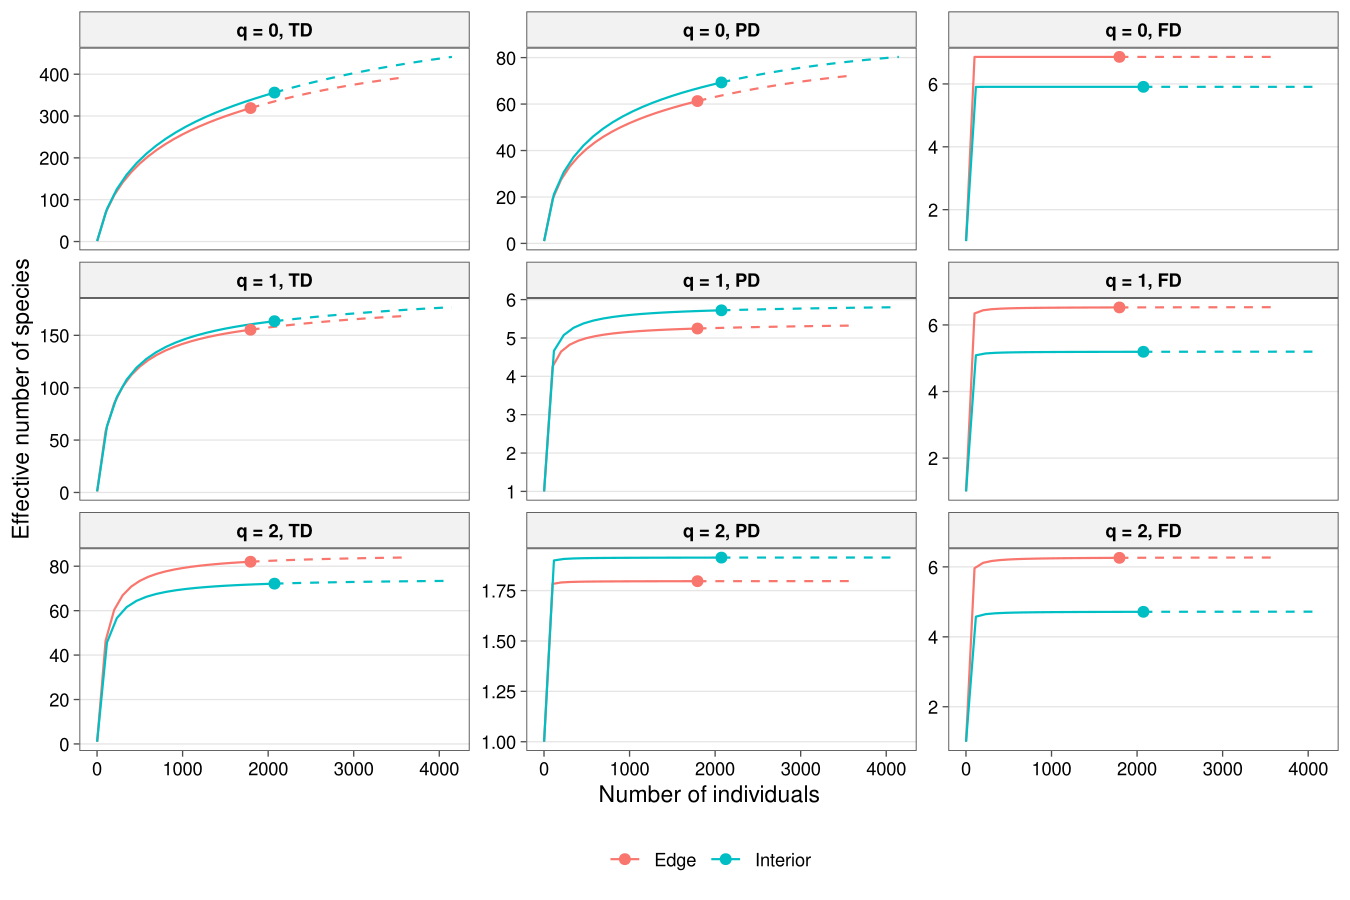
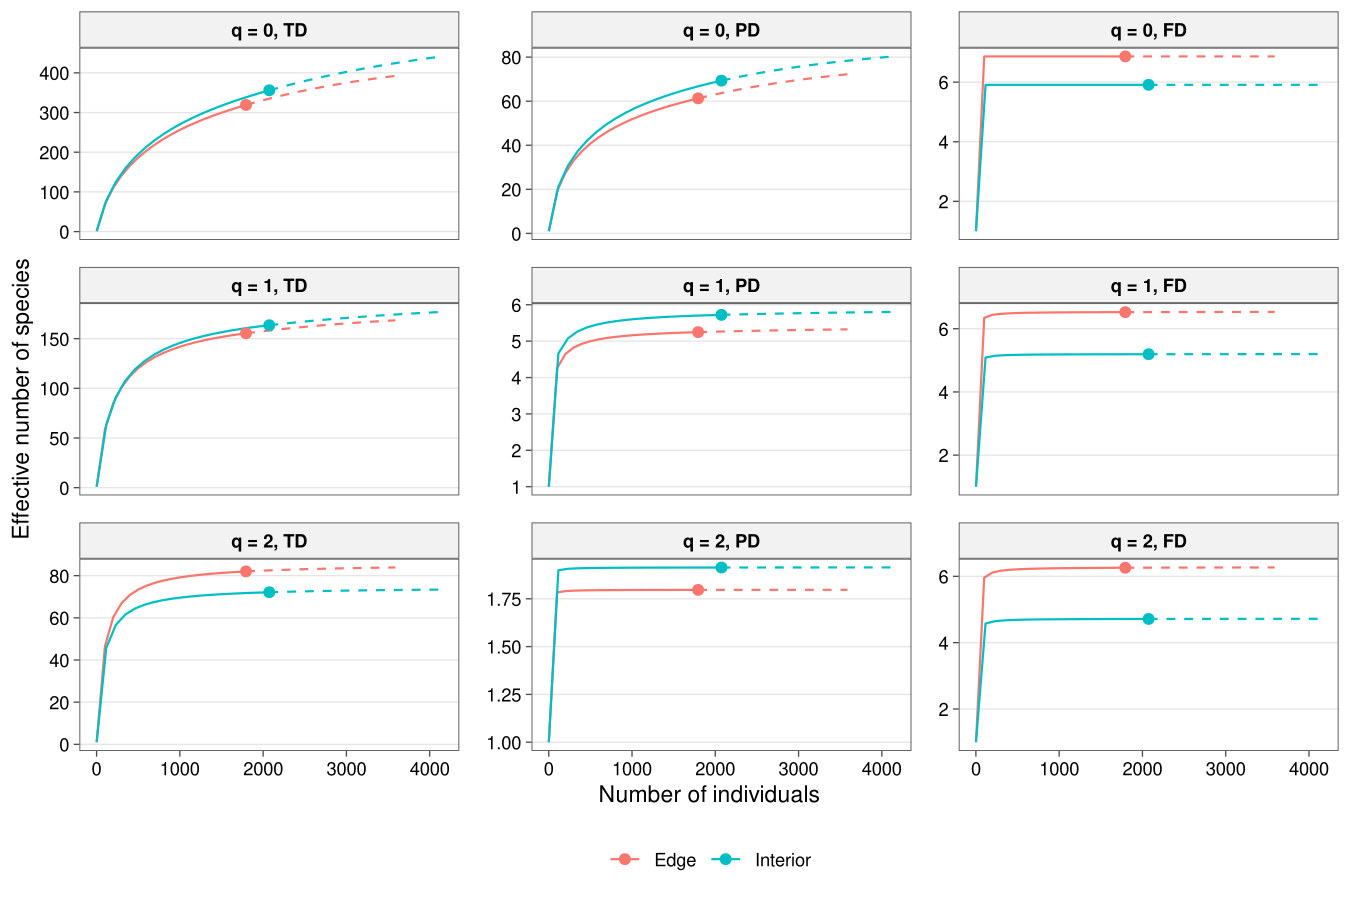
Plots: stop dark-mode inversion of figures; ordination labels in one non-overlapping layer with faint dotted leaders and documented line types; repelled coverage labels, no tick above 100%, wider facet spacing; tidydiversity theme in the alpha vignette

diff --git a/pkgdown/extra.css b/pkgdown/extra.css
@@ -101,3 +101,11 @@ footer { border-top: 1px solid var(--bs-border-color); margin-top: 3rem; padding
 
 /* Version number in the navbar: readable on the dark bar. */
 .navbar .nav-text.text-muted { color: rgba(255, 255, 255, .72) !important; }
+
+/* The site's dark mode (Bootstrap/pkgdown) inverts plot images with a CSS
+   filter, which turns white figures black and swaps their colours. Figures
+   are always shown exactly as drawn: white, with their true colours. */
+[data-bs-theme="dark"] img,
+[data-bs-theme="dark"] pre .r-plt.img img,
+[data-bs-theme="dark"] .cell-output-display img,
+[data-bs-theme="dark"] .html-widget { filter: none !important; }

diff --git a/NEWS.md b/NEWS.md
@@ -1,6 +1,16 @@
 # tidydiversity 0.0.0.9000
 
 * Package scaffold.
+* Plots on the website: the site's dark mode no longer inverts figures
+  (it turned white plots black and changed their colours); every figure
+  is shown white with its true colours.
+* Ordination plots: all labels (species, sites, variables, centroids) are
+  placed in one layer that avoids every point and every other label;
+  leader lines for moved labels are faint and dotted, and no longer look
+  like species vectors. The help page and article explain every line
+  type. The text layer no longer adds "a" keys to the legend.
+* Coverage plots repel site labels instead of overprinting them and show
+  no axis tick above 100%; facet panels have more space between them.
 * `beta_indicator()` now corrects p-values for multiple testing
   (`adjust = "holm"` by default; new column `p.adj`) and selects species
   on the adjusted values. Use `adjust = "none"` for the previous
